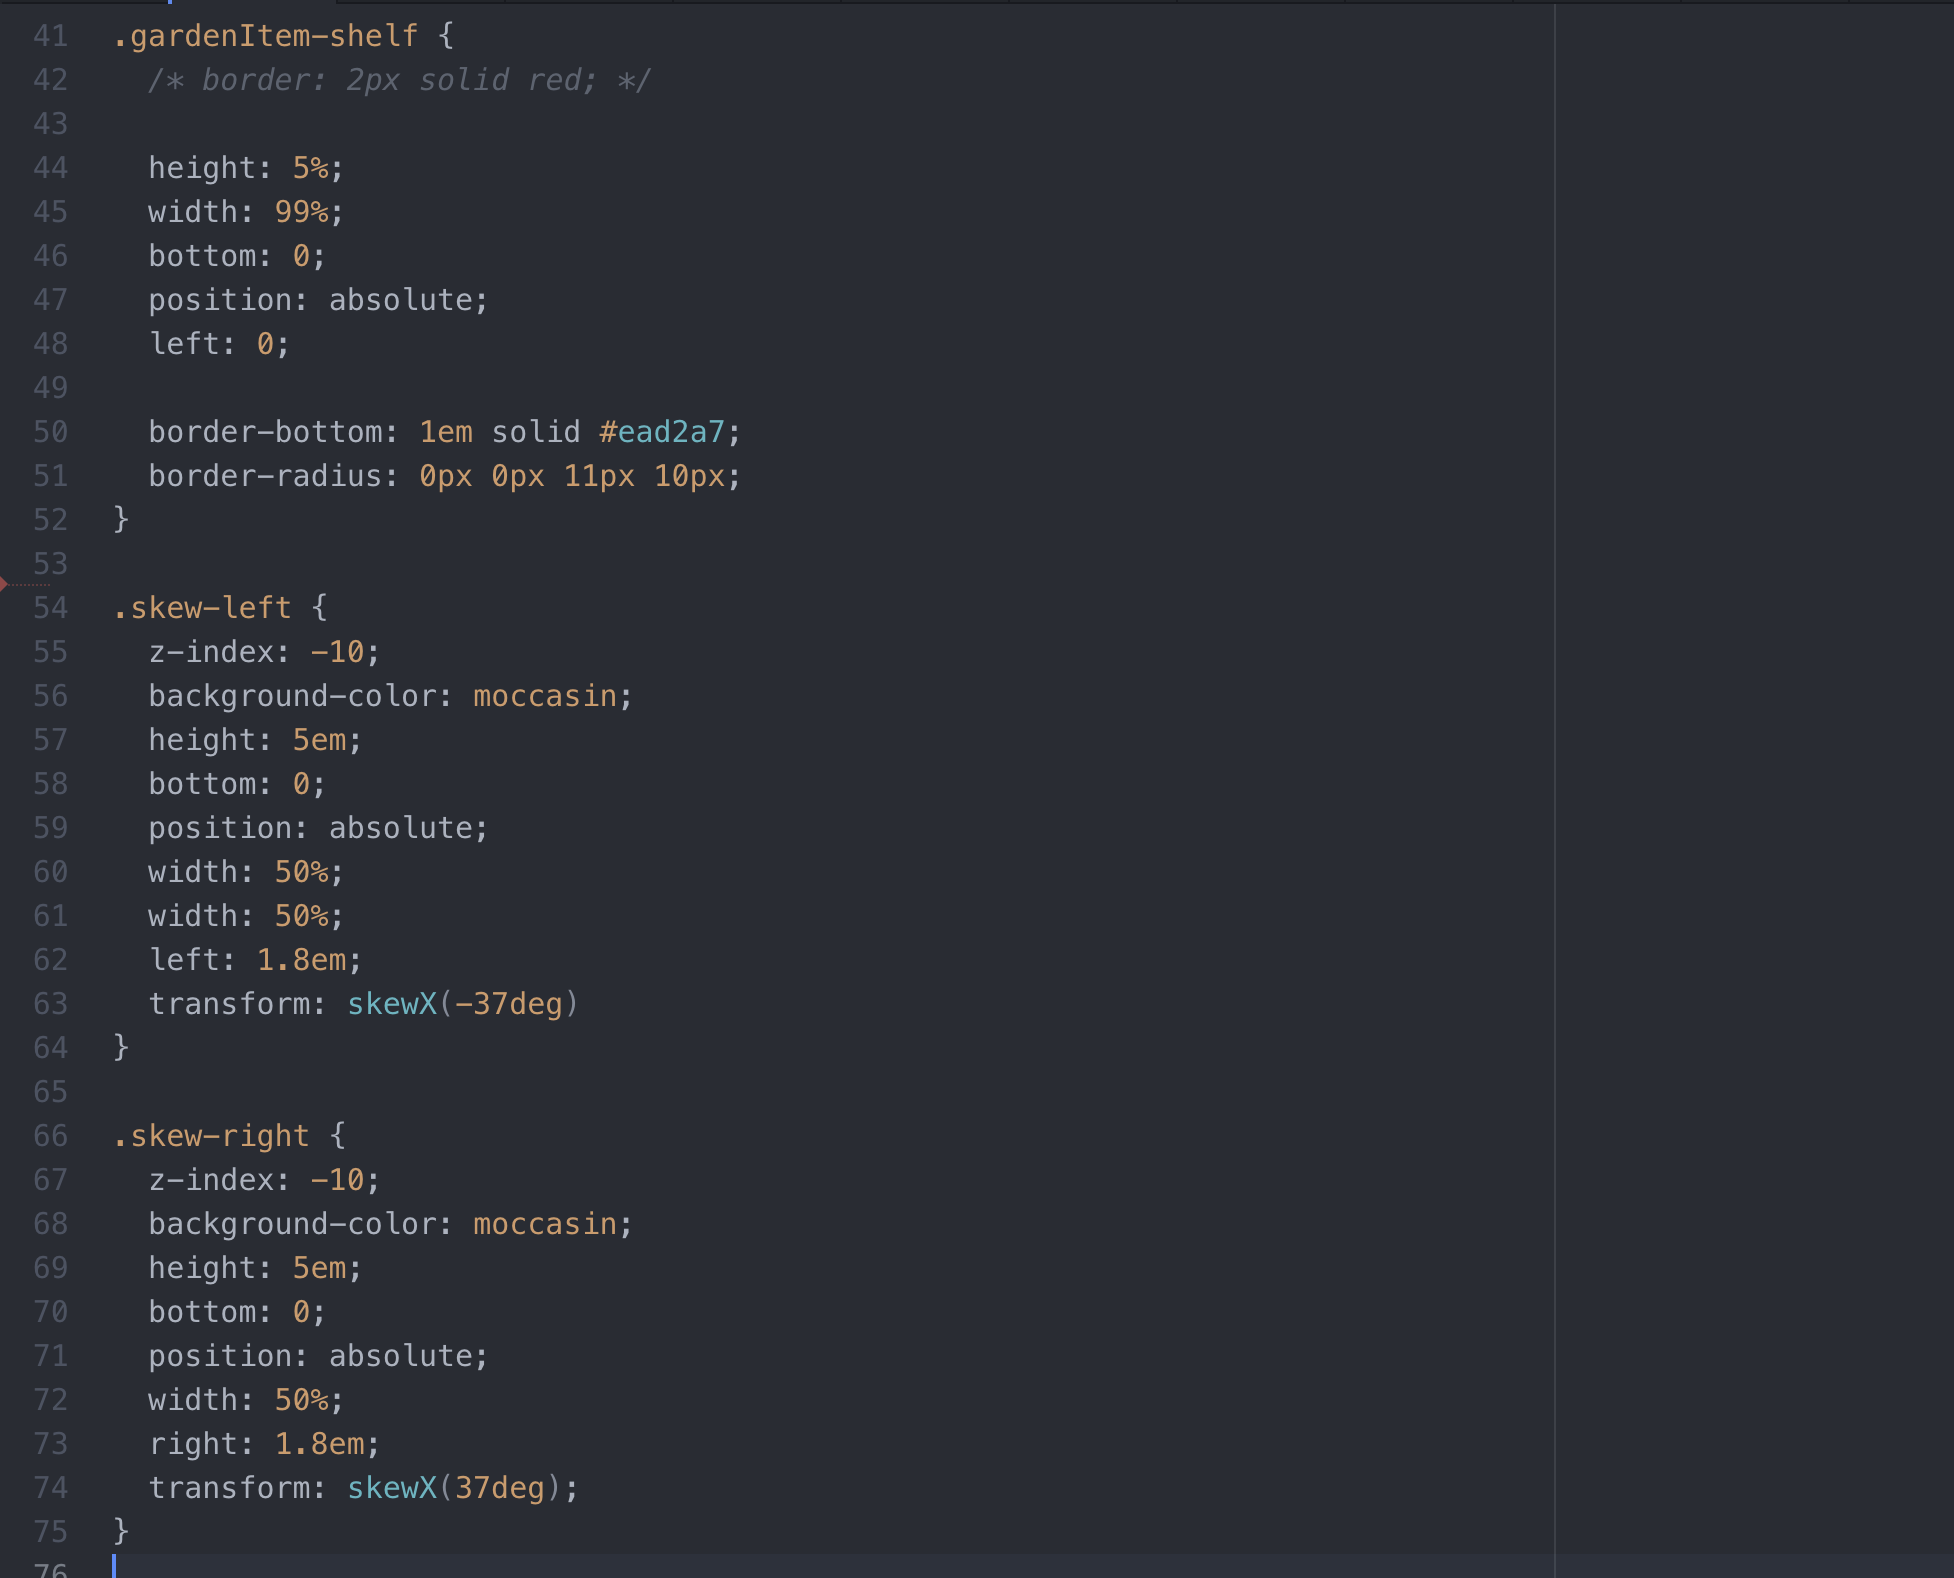
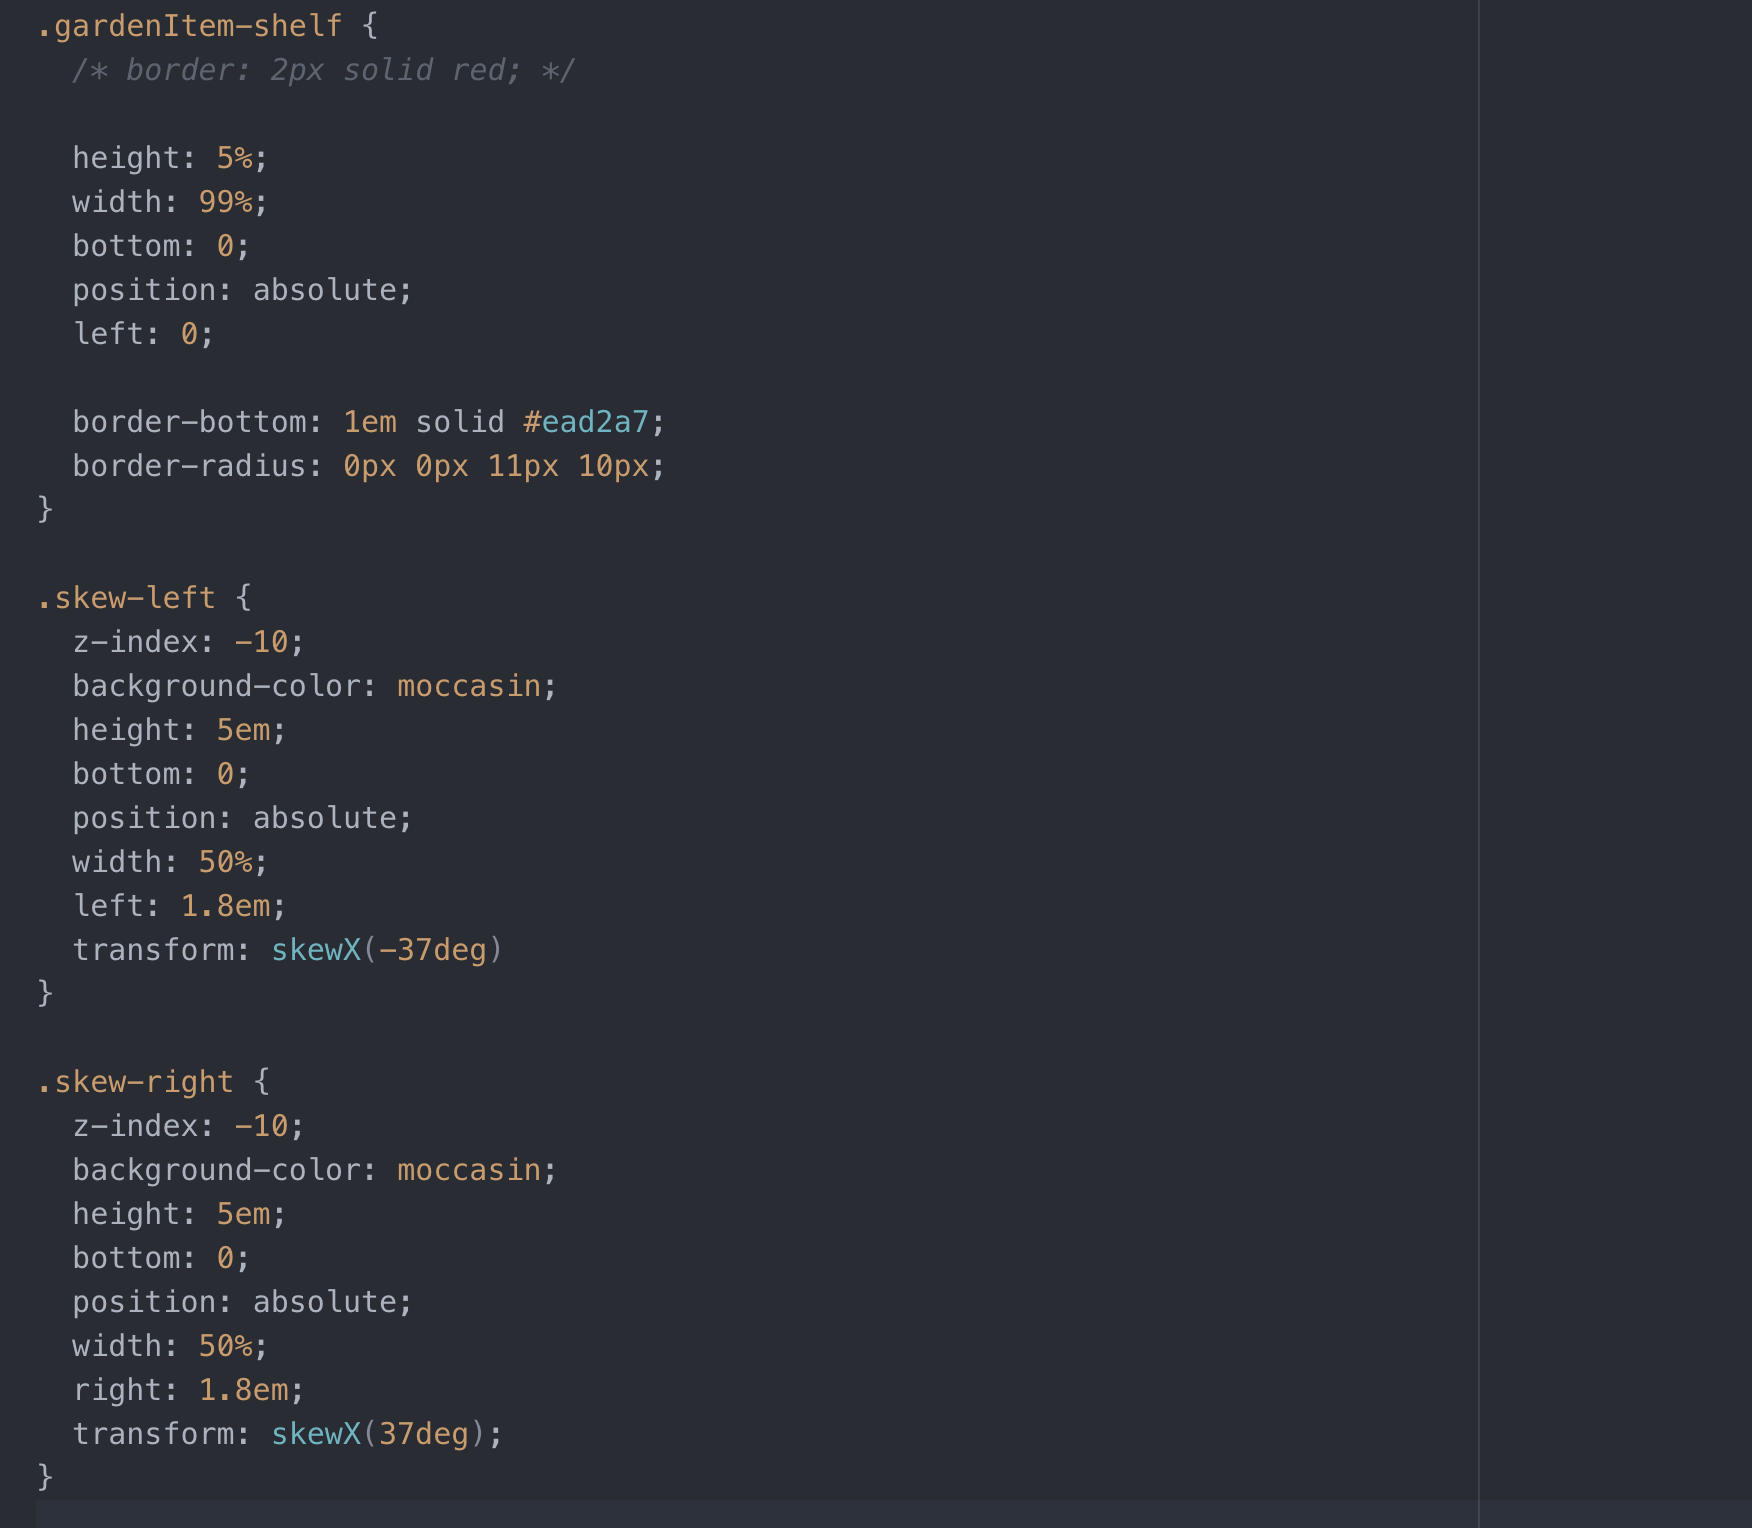
readme

diff --git a/src/components/GardenDisplay/GardenDisplay.css b/src/components/GardenDisplay/GardenDisplay.css
@@ -51,14 +51,12 @@
   border-radius: 0px 0px 11px 10px;
 }
 
-
 .skew-left {
   z-index: -10;
   background-color: moccasin;
   height: 5em;
   bottom: 0;
   position: absolute;
-  width: 50%;
   width: 50%;
   left: 1.8em;
   transform: skewX(-37deg)

diff --git a/src/SignUp.js b/src/SignUp.js
@@ -47,7 +47,6 @@ function SignUp( props ){
       url = 'https://backend-stalk.herokuapp.com';
     }
 
-    console.log('url', url);
     axios.post(`${url}/users`, {
       user,
       headers: {

diff --git a/README.md b/README.md
@@ -2,72 +2,86 @@
 
 ## Purpose of the site
 
-The main focus of the site is to provide a platform that helps you keep track of when you last watered your plants, schedule watering and provide notifications. You can also document the progress of your plants with photos in the my garden feature.
-
+Provide a platform that helps you keep track of when you last watered your plants, schedule watering and provide notifications. You can also document the progress of your plants with photos in the my garden feature.
 
 ## Features
 
-* Full rails CRUD system and SPA interface
-* My Garden, populated by photos of your plants to keep track of there progress
-  * Home page displays latest photo of each plant in a users garden, grouped by user
-  * Profile view displays individual plant and there progress
-* Indicator on the time since each plant was last watered
-  * Provides real-time updates to the second
-  * Click to update when watered
-* Calendar to schedule watering days
-  * Set by the user so they can dynamically update the schedule based on season
-* Notifications on login of which plants need watering that day
-* Photo upload and storage provided by Cloudinary
-
-
-## Style
-
-* Organic
-* Clean
-* Stylish
-
-
-## Tech / Framework Used
-
-* React
-* react-notifications-component
-* react-big-calendar
-* moment
-* Ruby
-* Ruby on Rails
-* JWT tokens
-* Postgresql
-* CSS
-* Cloudinary
-* Heroku
-
+- Ruby on Rails API and React.js SPA interface
+- My Garden, populated by photos of your plants to keep track of there progress
+  - Home page displays latest photo of each plant in a users garden, grouped by user
+  - Profile view displays individual plant and there progress
+- Indicator on the time since each plant was last watered
+  - Provides real-time updates to the second
+  - Click to update when watered
+- Calendar to schedule watering days
+  - Set by the user so they can dynamically update the schedule based on season
+- Notifications on login of which plants need watering that day
+- Photo upload and storage provided by Cloudinary
 
 ## Link to Live Site
 
 https://jaytees.github.io/frontend-stalk/#/
 
+## Style
+
+- Organic
+- Clean
+- Stylish
+
+## Tech / Framework Used
+
+- React
+- react-notifications-component
+- react-big-calendar
+- moment
+- Ruby
+- Ruby on Rails
+- JWT tokens
+- Postgresql
+- CSS
+- Cloudinary
+- Heroku
+
 ## Link to the Backend Repo
 
 https://github.com/srv-dev/backend-stalk
 
+## Experience & Process
+
+- First team project, so dealing with the minefields of merge conflicts was a fun experience. But I loved the dynamic of group work.
+- Really loved seeing our individual pieces of the project come together over the course the of the week. Everyone played a huge a part in the project and we were all really impressed and happy with what we achieved together.
+- It has definitely left me with a sense of excitement about what can be achieved as part of a larger dev team.
+- We first decided the MVP requirements of our app, wire-framed the UI with the help of some UX students and developed the SQL DB associations collaboratively.
+- We then split the workflow into deliverables tracked using Trello.
+- I first took responsibility for the user authentication on the back and front-end, challenging myself to build this without a library.
+- We then pair-programmed some of the harder functionality, my team developed the rendering of real-time data for last watered.
+- Once this was done I focused on the UI, styling and integrating the components and building interactivity.
 
 ## Wins
 
-* Tackling a full stack authentication process with no prior experience, was perhaps my biggest challenge and biggest reward. I choose to take on this task without the use of a library like Knock. In hindsight I am not sure why but I don't regret the decision. In the process I learnt a lot about;
-  * The encoding and decoding of JWT tokens
-  * How JWT tokens are used for authorization
-  * Functional programming in Ruby
-* Really proud of what I managed to achieve with the design aesthetic in just a few days. Most notably the garden display with the burger menu, pure css water drop and of course the pure CSS shelf. Also very happy with the form styling.
-* Using and learning how to use hooks in functional components.
+- **Full Stack Authentication** - Tackling this with no prior experience, was perhaps my biggest challenge and biggest reward. I choose to take on this task without the help of a library like Knock because I really wanted to know what was going on under the hood of such an important aspect of modern web apps. In the process I learnt a lot about;
 
+  - The encoding and decoding of JWT tokens
+  - How JWT tokens are used for authorisation
+  - Functional programming in Ruby
+
+- **Time Since Last Watered** - This was a real defining feature but also something we weren't really sure how to achieve. Which obviously made it even more satisfying. The biggest challenge was how to handle Ruby UNIX time format on the React.js front-end. After a bit of research the task began to look less daunting and we started developing the feature. But once we had worked out how to display the correct time we immediately had to convert it back to update the back-end. We can now display the time down the second though.
+
+- **Styling** - I'm really proud of what I managed to achieve with the design aesthetic in just a few days. Most notably the garden display with the burger menu, pure css water drop and of course the pure CSS shelf. Also very happy with the form styling.
+
+- **Hooks** - This was my first experience using and learning about hooks in functional components. They really made React feel a lot more intuitive for me and I haven't looked back.
 
 ## Challenges
 
-* As mentioned above in Wins, the authentication process was testing. Having no prior knowledge it was a process of learning and understanding whilst implementing. I used a number of different online resources in the end, each providing different elements of the process (never the full picture), which I had to piece together to suit my needs and stack. A snippet of the backend code is previewed in the code section of the README.
-* Version control and merge conflicts were difficult to overcome at first, with quite a few lost hours. After some research in the end we opted for branches, as each team member was a collaborator on the repo. This helped us gain an understanding of branches and once this was achieved it was (almost plain sailing).
+- **Full Stack Authentication** - As mentioned above in Wins, the authentication process was testing. Having no prior knowledge it was a process of learning and understanding whilst implementing. I used a number of different online resources in the end, each providing different elements of the process (never the full picture), which I had to piece together to suit my needs and stack. A snippet of the backend code is previewed in the code section of the README.
 
+- **Integrating Our Components** - As we approached the due date, we had to bring all of the components we had been individually working on together. This caused two problems; navigation and re-factoring. The re-factoring issue was the most challenging. My best example would be the times since last watered feature for each plant. In development this was built on a clone of the my garden component. Which seemed reasonable to avoid conflicting changes and distraction to other team members. So when I came to integrate, I had to take the code, extract the necessary parts into a new component, decide what data this component relied on from the parent, pass this down and refactor how it was handled in the component.
+
+- **Version Control and Merge Conflicts** - These were difficult to overcome at first, with quite a few lost hours. After some research in the end we opted for branches, as each team member was a collaborator on the repo. This helped us gain an understanding of branches and once this was achieved it was (almost plain sailing).
 
 ## Code
+
+- Authentication process
 
 * Refactor of the handling of signup data. Using the useReducer hook and spread operators, to handle the change to multiple fields in the user object in one function.
 
@@ -75,49 +89,40 @@ https://github.com/srv-dev/backend-stalk
 
 ![handle change image](./public/readme-images/use-reducer-code.png)
 
-* Couldn't not mention the shelf
+- Couldn't not mention the shelf
 
 ![handle change image](./public/readme-images/shelf-css.png)
 
-
 ## Screenshots
 
-* Homepage
+- Homepage
 
 ![homepage image](./public/readme-images/homepage.png)
 
-* Profile Page
+- Profile Page
 
 ![profile page image](./public/readme-images/profile-page.png)
 
-* Your Personal Garden
+- Your Personal Garden
 
 ![personal garden image](./public/readme-images/your-garden.png)
 
-* Other Users Gardens
+- Other Users Gardens
 
 ![other users gardens image](./public/readme-images/other-users-gardens.png)
 
-* Signup form
+- Signup form
 
 ![sign up form image](./public/readme-images/signup-form.png)
 
-
-
-## Experience
-
-* First team project, so dealing with the minefields of merge conflicts was a fun experience.
-* Really loved seeing our individual pieces of the project come together over the course the of the week. Everyone played a huge a part in the project and even though not everyone was sold on the concept at the beginning we were all really impressed and happy with what we achieved together.
-* It has definitely left me with a sense of excitement about being part of a dev team and the possibilities of what can be achieved.
-
 ## Things to do
 
-* Finish the ability to follow other plants progress
-* Navigation is quite difficult
-* Email notifications
-* Authorization for certain functions and components
+- Finish the ability to follow other plants progress
+- Navigation is quite difficult
+- Email notifications
+- Authorization for certain functions and components
 
 ## Known bugs
 
-* Sometimes the calendar fails to show schedule for all plants in the upcoming months
-* Need to hard refresh to update the time after clicking watered
+- Sometimes the calendar fails to show schedule for all plants in the upcoming months
+- Need to hard refresh to update the time after clicking watered
